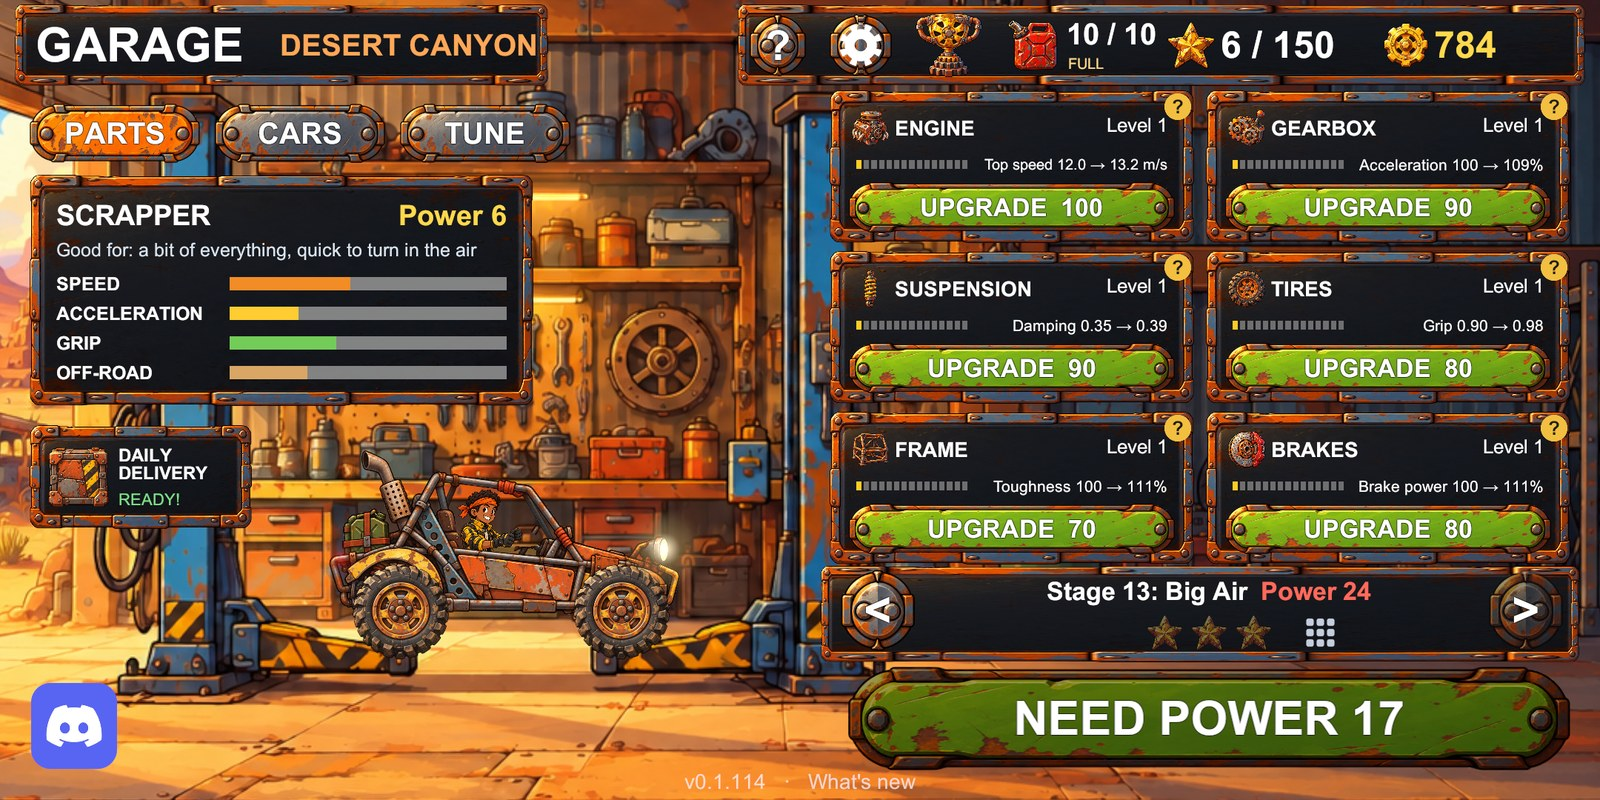
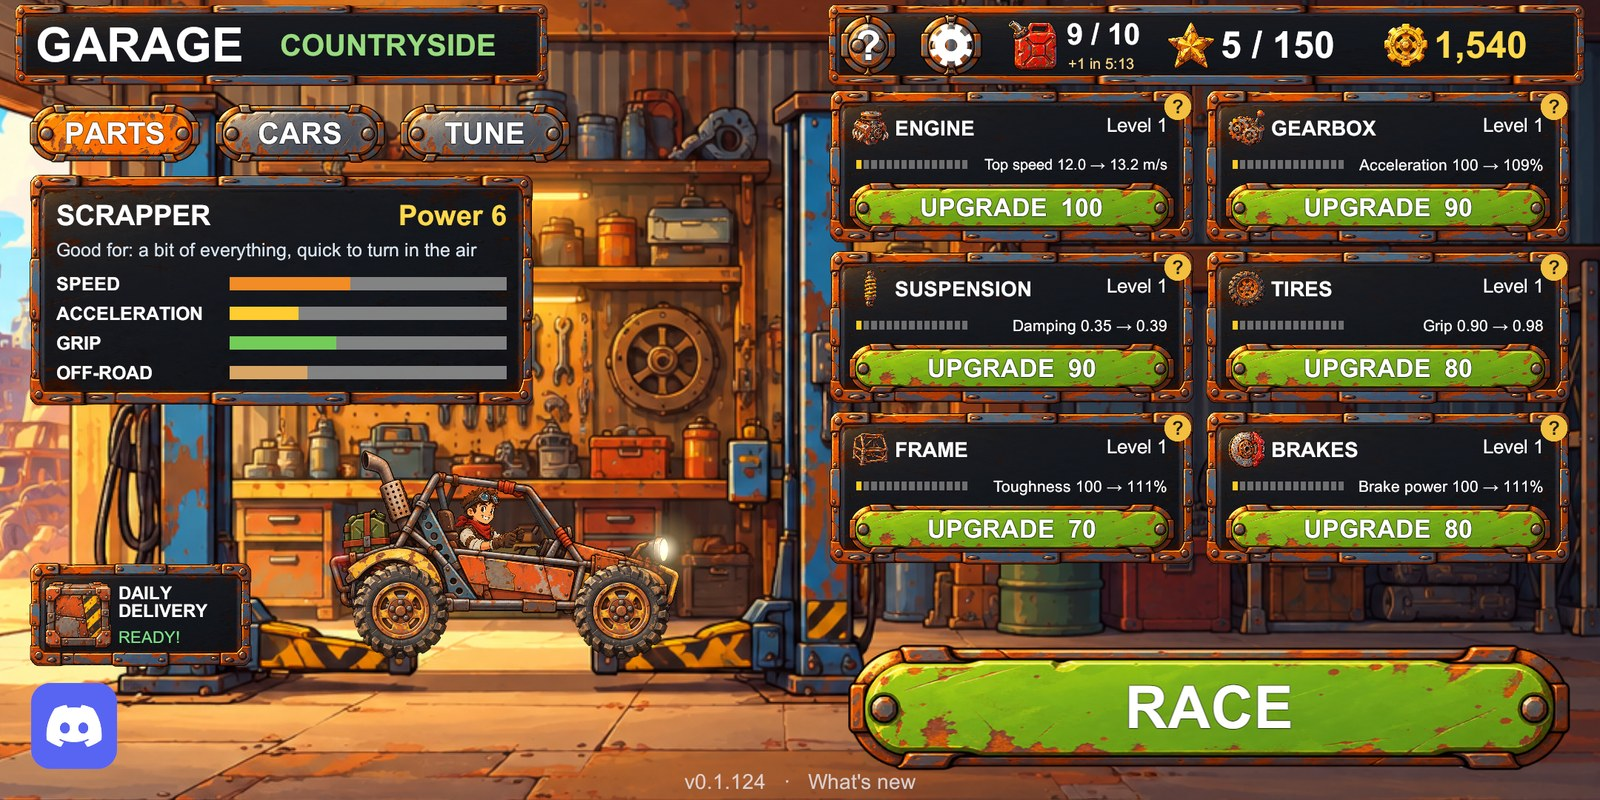
How to play + home: CAREER map, VERSUS (race friends, same Power, SETUP), RACE button, settings racer name; crusher/ball and extra-coins fixes; new pictures

diff --git a/guide.html b/guide.html
@@ -4,7 +4,7 @@
 <meta charset="utf-8">
 <meta name="viewport" content="width=device-width, initial-scale=1">
 <title>How to play Garage Rush · Tipps Studios</title>
-<meta name="description" content="How to play Garage Rush: the pedals, time and checkpoints, flips and wheelies, crash damage, coins and stars, upgrades, cars, drivers, tuning, stages and the Power they need, leaderboards, fuel, the Daily Delivery and settings.">
+<meta name="description" content="How to play Garage Rush: the pedals, time and checkpoints, flips and wheelies, crash damage, the CAREER map, VERSUS races with friends, coins and stars, upgrades, cars, drivers, tuning, stages and the Power they need, leaderboards, fuel, the Daily Delivery and settings.">
 <link rel="icon" href="img/icon_192.png">
 <link rel="stylesheet" href="style.css">
 </head>
@@ -29,7 +29,8 @@
     <li><a href="#upgrades">Upgrades</a></li>
     <li><a href="#cars">Cars</a></li>
     <li><a href="#tune">Tune</a></li>
-    <li><a href="#stages">Stages</a></li>
+    <li><a href="#stages">Career</a></li>
+    <li><a href="#versus">Versus</a></li>
     <li><a href="#leaderboards">Leaderboards</a></li>
     <li><a href="#fuel">Fuel</a></li>
     <li><a href="#coins">Coins and stars</a></li>
@@ -57,14 +58,14 @@
     </ul>
     <h3>The buttons at the top</h3>
     <ul>
-      <li><span class="key">?</span> pauses the race and shows the race guide with this stage's tips.</li>
+      <li><span class="key">?</span>, left of the clock: pauses the race and shows the race guide with this stage's tips.</li>
       <li><span class="key">II</span> pauses: carry on, restart the stage, or go back to the garage.</li>
       <li><span class="key">RESET</span>: stuck or upside down? It puts the car back a few metres.</li>
     </ul>
     <h3>Time's up</h3>
     <p>If the clock reaches zero you can watch an ad to <b>CONTINUE +15 s</b>, once per race. A finish after a Continue still counts for your stars and the leaderboard.</p>
     <h3>After the race</h3>
-    <p>The results show your stars and what the race paid, line by line. Watch an ad for <b>×2 COINS</b>, then race again with <b>RETRY</b>, go on with <b>NEXT</b>, or head back to the <b>GARAGE</b>.</p>
+    <p>The results show your stars and what the race paid, line by line. Watch an ad for <b>extra coins</b> (twice the pay), then race again with <b>RETRY</b>, go on with <b>NEXT</b>, or head back to the <b>GARAGE</b>.</p>
     <p>Ran out of time just short of a checkpoint or the finish, or got further than ever on that stage? Then <b>RETRY</b> is free: it uses no fuel.</p>
   </section>
 
@@ -89,8 +90,8 @@
     <table class="table">
       <thead><tr><th>Hazard</th><th>How to beat it</th></tr></thead>
       <tbody>
-        <tr><td>Crushers</td><td>Go while it's up. The sign's lamp turns green when you'll make it. A squash costs time.</td></tr>
-        <tr><td>Wrecking balls</td><td>Pass while the ball is high. Green lamp: go. A hit costs time and dents the car.</td></tr>
+        <tr><td>Crushers</td><td>Go while it's up: the lamps on its post light up one by one while the press is raised. A squash costs time.</td></tr>
+        <tr><td>Wrecking balls</td><td>Pass while the ball swings high, away from the road. A hit costs time and dents the car.</td></tr>
         <tr><td>Bottomless pits</td><td>Hit the ramp fast. Fall in and you go back a bit, with a dent.</td></tr>
         <tr><td>Crate walls</td><td>They need a run-up: back up along the yellow dashes.</td></tr>
         <tr><td>Wooden boxes, barriers</td><td>Smash through them fast. Too slow and they stop you.</td></tr>
@@ -111,13 +112,13 @@
     <figure class="shot"><img src="img/guide_garage.jpg" width="1600" height="800" loading="lazy" alt="The garage: the car on its lift, the car panel and the Daily Delivery on the left, the Discord button bottom left, six part cards on the right, the stage picker and the START RACE button, here saying NEED POWER 17"></figure>
     <p>Between races you're in the garage. Tap the <span class="key">?</span> at the top any time to see what every part of the screen does.</p>
     <ul>
-      <li><b>Top left:</b> the world you're racing in. Tap it to open the STAGES window.</li>
-      <li><b>Top bar:</b> the guide <span class="key">?</span>, settings (gear), leaderboard (trophy), fuel, your stars and your coins.</li>
+      <li><b>Top left:</b> the world you're racing in. Tap it to open the CAREER map.</li>
+      <li><b>Top bar:</b> the guide <span class="key">?</span>, settings (gear), fuel, your stars and your coins.</li>
       <li><b>PARTS, CARS, TUNE:</b> the three tabs, explained below.</li>
       <li><b>Car panel:</b> the car you drive, its <b>Power</b> (all its part levels added up) and what it's good at.</li>
-      <li><b>Daily Delivery</b>, under the car panel: a free crate of coins every day (see below).</li>
+      <li><b>Daily Delivery</b>, bottom left above the Discord button: a free crate of coins every day (see below).</li>
       <li><b>Discord</b>, bottom left: opens the Garage Rush Discord server, in the Discord app if you have it.</li>
-      <li><b>Bottom right:</b> the stage picker and <b>START RACE</b>.</li>
+      <li><b>Bottom right:</b> the big <b>RACE</b> button: choose <b>CAREER</b> (every stage on the map) or <b>VERSUS</b> (race your friends).</li>
       <li><b>Bottom:</b> the version and <b>What's new</b>, the notes for each update (with an UPDATE button when a newer version is on Google Play).</li>
     </ul>
     <h3 id="delivery">Daily Delivery</h3>
@@ -184,14 +185,15 @@
   </section>
 
   <section id="stages">
-    <h2>Stages and the STAGES window <span class="num">8</span></h2>
-    <figure class="shot"><img src="img/guide_stages.jpg" width="1600" height="800" loading="lazy" alt="The STAGES window: ten world buttons along the top and the world's ten stages as tiles"></figure>
+    <h2>Career: the map <span class="num">8</span></h2>
+    <figure class="shot"><img src="img/guide_career.jpg" width="1600" height="800" loading="lazy" alt="The CAREER map: the road through the worlds with a pin for each stage, and the stage panel on the right with stars, the fastest racers and RACE"></figure>
+    <p>Tap <b>RACE</b> in the garage, then <b>CAREER</b>. Every stage is a pin on one long map, along a road through the five worlds.</p>
     <ul>
-      <li>Finish a stage to open the next one. Each world's stages get harder as you go.</li>
-      <li>Step through them with the <span class="key">&lt;</span> <span class="key">&gt;</span> arrows on the stage picker.</li>
-      <li>Or tap the <b>stage name</b>, the <b>grid icon</b> beside its stars, or the <b>world name</b> at the top left to open <b>STAGES</b>: every world along the top, and the world's stages as tiles over their own skies.</li>
-      <li>Each tile shows your stars, the Power the stage is made for, your place on its leaderboard and your best time. A locked tile says which stage opens it. Tap a tile to pick that stage.</li>
-      <li>Worlds still to come show as COMING SOON.</li>
+      <li><b>Move around:</b> drag to slide along the map, pinch to zoom. It opens on the stage you raced last.</li>
+      <li><b>Pins:</b> each shows the stage number and your stars under it. The next stage to beat bounces. Grey pins with a padlock are still locked: finish the stage before to open them.</li>
+      <li><b>Tap a pin</b> to open its panel on the right: your stars, the Power the stage is made for, the three fastest racers and your own place and best time.</li>
+      <li><b>FULL LEADERBOARD</b> shows the top ten. <b>RACE</b> starts the stage (one fuel can).</li>
+      <li>Each world's name sits on a sign where its part of the map begins.</li>
     </ul>
     <h3 id="power">Power to start</h3>
     <p>World 1 is for learning: any car can race it. From World 2 a stage needs a minimum <b>Power</b> before it can start, so you never get stuck at a jump your car can't make.</p>
@@ -206,24 +208,53 @@
     </table>
     <ul>
       <li>From one stage to the next, the minimum never rises by more than 2. For example, Stage 31 needs Power 45, Stage 40 needs 59 and Stage 50 needs 76.</li>
-      <li>Too little Power? <b>START RACE</b> says <b>NEED POWER</b> and the number, and takes you to PARTS. The stage's tile in STAGES says <b>Needs Power</b> in red.</li>
+      <li>Too little Power? The stage panel's <b>RACE</b> button says <b>NEED POWER</b> and the number, and takes you to PARTS.</li>
       <li>After a race, <b>NEXT</b> tells you when the next stage needs more Power, with an <b>UPGRADE</b> button that takes you to the garage.</li>
     </ul>
   </section>
 
-  <section id="leaderboards">
-    <h2>Leaderboards <span class="num">9</span></h2>
+  <section id="versus">
+    <h2>Versus: race your friends <span class="num">9</span></h2>
+    <figure class="shot"><img src="img/guide_versus.jpg" width="1600" height="800" loading="lazy" alt="The VERSUS lobby: the join code with SHARE, the stage, and a card for each racer with their driver, name, car and READY"></figure>
+    <p>Race up to two friends on the same stage, live. Tap <b>RACE</b> in the garage, then <b>VERSUS</b>.</p>
+    <h3>Host or join</h3>
     <ul>
-      <li>Every stage has its own leaderboard of the fastest finish times. Open it with the <b>trophy</b> in the garage's top bar, or from the results after a race.</li>
+      <li><b>HOST:</b> pick a stage you've opened, then <b>CREATE LOBBY</b>. You get a six-letter code: <b>SHARE</b> sends it on WhatsApp or anywhere else.</li>
+      <li><b>JOIN:</b> type the code a friend sent you.</li>
+      <li>In the lobby everyone sees each racer's driver, name and car. Friends tap <b>READY</b>; the host taps <b>START</b> once everyone is.</li>
+      <li>Everyone needs the same version of the game, and one fuel can for the race.</li>
+    </ul>
+    <h3>Same Power for everyone</h3>
+    <figure class="shot"><img src="img/guide_setup.jpg" width="1600" height="800" loading="lazy" alt="VERSUS SETUP: the car picker, the STANDARD, SPEED, GRIP and AIR presets, and each part with minus and plus buttons"></figure>
+    <ul>
+      <li>Your own upgrades don't count in VERSUS. Every car gets the Power the stage is made for, so the best driver wins.</li>
+      <li><b>SETUP</b> (on your card) is where you make the car yours: pick <b>any of the five cars</b>, then move points between the parts. Each part goes at most 3 levels up or down from the standard.</li>
+      <li>Quick presets: <b>STANDARD</b>, <b>SPEED</b> (top speed and acceleration), <b>GRIP</b> (mud, ice and steep climbs) and <b>AIR</b> (long jumps and flips). Tap a part to read what it does.</li>
+      <li>Your setup is saved for each car, and it's secret: the others only see which car you picked. Paint, engine sound and driver come from the garage.</li>
+    </ul>
+    <h3>The race</h3>
+    <ul>
+      <li>A 3-2-1 countdown starts everyone at the same moment.</li>
+      <li>Your friends race beside you as ghost cars with their names above them. You can't bump each other. Their pins on the progress bar show where they are.</li>
+      <li>No clock, no checkpoints and no coins on the road: it's a straight race to the finish. There's no pause, so set everything up in the garage first.</li>
+      <li>When the first car crosses the line, the others have <b>30 seconds</b> to finish. A wrecked car is out.</li>
+      <li>The podium shows places, cars and times, and pays coins by place. <b>BACK TO LOBBY</b> sets up a rematch.</li>
+    </ul>
+  </section>
+
+  <section id="leaderboards">
+    <h2>Leaderboards <span class="num">10</span></h2>
+    <ul>
+      <li>Every stage has its own leaderboard of the fastest finish times. Its top three show in the stage's panel on the map; <b>FULL LEADERBOARD</b>, or the trophy after a race, opens the top ten.</li>
       <li>It shows the ten fastest players, with their car, and your own place and best time.</li>
       <li>Every finish counts, with or without a Continue. No internet? Your best time is kept and sent the next time you're online.</li>
       <li>The first time you play you choose your racer name (the game suggests a free one, or type your own). Every name is unique: no two players share one.</li>
-      <li><b>CHANGE NAME</b> sets a new name. Tap another player's name to hide it on your phone or report it.</li>
+      <li>Change it in Settings (<b>RACER NAME</b>) or with <b>CHANGE NAME</b> in the leaderboard. Tap another player's name to hide it on your phone or report it.</li>
     </ul>
   </section>
 
   <section id="fuel">
-    <h2>Fuel <span class="num">10</span></h2>
+    <h2>Fuel <span class="num">11</span></h2>
     <figure class="shot"><img src="img/guide_fuel.jpg" width="1600" height="800" loading="lazy" alt="The FUEL window: 10 of 10 cans, tank full, and a button to watch an ad for 3 more"></figure>
     <ul>
       <li>Your tank holds <b>10 cans</b>, and every race uses one.</li>
@@ -234,19 +265,19 @@
   </section>
 
   <section id="coins">
-    <h2>Coins and stars <span class="num">11</span></h2>
+    <h2>Coins and stars <span class="num">12</span></h2>
     <ul>
       <li>Every stage has <b>40 coins</b>. Finish with <b>16 / 26 / 34</b> coins for <b>1 / 2 / 3 stars</b>. Some coins hide high in the air, over jumps and vents.</li>
       <li>Stars count only on a finish, and they unlock new cars.</li>
       <li>A race pays for every coin you grab (coins are worth more in later worlds), for the distance you drove, a bonus for your first finish of a stage, and a bonus for each new star.</li>
       <li><b>WORLD CLEARED!</b> Your first finish of a world's last stage pays a big bonus on top.</li>
-      <li>Spend coins on upgrades in the PARTS tab. Watch an ad after a race for ×2 coins.</li>
+      <li>Spend coins on upgrades in the PARTS tab. Watch an ad after a race for extra coins (twice the pay).</li>
       <li>More coins every day: the <a href="#delivery">Daily Delivery</a> in the garage.</li>
     </ul>
   </section>
 
   <section id="settings">
-    <h2>Settings <span class="num">12</span></h2>
+    <h2>Settings <span class="num">13</span></h2>
     <figure class="shot"><img src="img/guide_settings.jpg" width="1600" height="800" loading="lazy" alt="The SETTINGS window: music, sound effects, time of day, flashing effects, effects, personalised ads and credits"></figure>
     <p>Tap the gear in the garage's top bar.</p>
     <table class="table">
@@ -256,6 +287,7 @@
         <tr><td>Time of day</td><td>Race in daylight, or slide toward dusk and night.</td></tr>
         <tr><td>Flashing effects</td><td>OFF for players sensitive to flashing light: lightning becomes a soft glow and nothing blinks.</td></tr>
         <tr><td>Effects</td><td>HIGH for every effect, LOW for a smoother game on slower phones.</td></tr>
+        <tr><td>Racer name</td><td>The name others see on the leaderboards and in VERSUS. CHANGE opens the name box, with the drivers.</td></tr>
         <tr><td>Personalised ads</td><td>Whether the ads may be based on your interests. In Europe this follows Google's consent rules.</td></tr>
         <tr><td>Credits</td><td>Who made the game, its music and its sounds.</td></tr>
       </tbody>

diff --git a/index.html b/index.html
@@ -57,10 +57,18 @@
         <h3>Collect stars</h3>
         <p>Grab coins for up to three stars per stage, unlock new worlds, and race for the fastest times on each stage's leaderboard.</p>
       </div>
+      <div class="card">
+        <h3>Career map</h3>
+        <p>Every stage is a pin on one big map through the worlds. Slide and zoom along the road, see your stars and the fastest racers on each stage, and pick up where you left off.</p>
+      </div>
+      <div class="card">
+        <h3>Race your friends</h3>
+        <p>VERSUS puts you and up to two friends on the same stage, live. Share a code, pick any car, and spread the same Power over its parts your way. No upgrades decide it: the best driver wins.</p>
+      </div>
     </div>
     <p style="margin-top: 14px;">Two pedals: easy to learn, hard to master.</p>
     <div class="cta">
-      <p>New to Garage Rush? Read the guide: the pedals, upgrades, cars, tuning, stages, leaderboards, fuel and settings.</p>
+      <p>New to Garage Rush? Read the guide: the pedals, upgrades, cars, tuning, the career map, VERSUS, leaderboards, fuel and settings.</p>
       <a class="button" href="guide.html">How to play</a>
     </div>
   </section>
